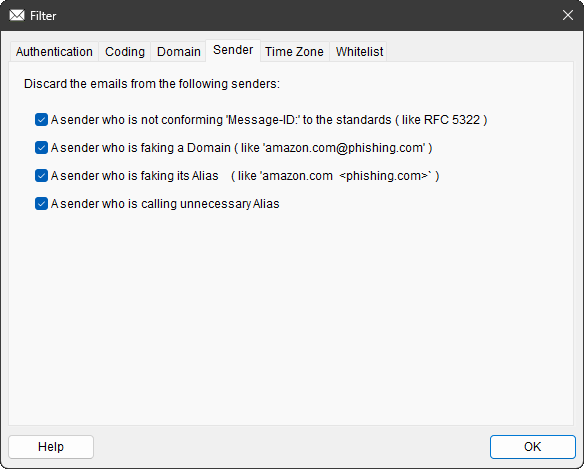
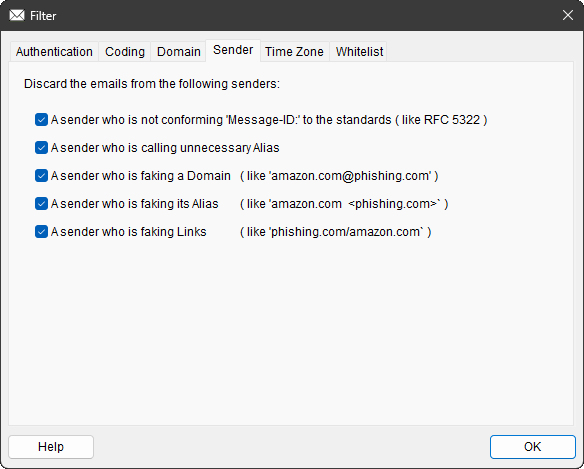
[MOD] to add 'A sender who is faking Links'

diff --git a/ChkMails/ChkMails/MainWnd.cpp b/ChkMails/ChkMails/MainWnd.cpp
@@ -364,7 +364,7 @@ CMainWnd::OnShowHelp( WPARAM wParam, LPARAM lParam )
 void
 CMainWnd::OnMenuWeb( void )
 {
-	CString	strPath = _T("https://github.com/inhouse-tool/ChkMails/README.md");
+	CString	strPath = _T("https://github.com/inhouse-tool/ChkMails/blob/main/README.md");
 	ShellExecute( NULL, _T("open"), strPath, NULL, NULL, SW_SHOWNORMAL );
 }
 
@@ -801,13 +801,13 @@ CMainWnd::LoadFilters( void )
 {
 	CChkMailsApp*	pApp = (CChkMailsApp*)AfxGetApp();
 
-	m_nAuth      = pApp->GetProfileInt(    _T("Filters"), _T("AuthFail"), 2 );
-	m_dwAuthCache     = pApp->GetProfileInt(    _T("Filters"), _T("AuthBits"), 0x00 );
-	m_dwCode     = pApp->GetProfileInt(    _T("Filters"), _T("Code"),     0x07 );
-	m_strDomains = pApp->GetProfileString( _T("Filters"), _T("Drop"),     _T("") );
-	m_dwSender   = pApp->GetProfileInt(    _T("Filters"), _T("Sender"),   0x0f );
-	m_strTimes   = pApp->GetProfileString( _T("Filters"), _T("TimeZone"), _T("") );
-	m_strWhites  = pApp->GetProfileString( _T("Filters"), _T("White"),    _T("") );
+	m_nAuth       = pApp->GetProfileInt(    _T("Filters"), _T("AuthFail"), 2 );
+	m_dwAuthCache = pApp->GetProfileInt(    _T("Filters"), _T("AuthBits"), 0x0000 );
+	m_dwCode      = pApp->GetProfileInt(    _T("Filters"), _T("Code"),     0xffff );
+	m_strDomains  = pApp->GetProfileString( _T("Filters"), _T("Drop"),     _T("") );
+	m_dwSender    = pApp->GetProfileInt(    _T("Filters"), _T("Sender"),   0xffff );
+	m_strTimes    = pApp->GetProfileString( _T("Filters"), _T("TimeZone"), _T("") );
+	m_strWhites   = pApp->GetProfileString( _T("Filters"), _T("White"),    _T("") );
 }
 
 void
@@ -1780,8 +1780,29 @@ CMainWnd::CheckLink( CString& strLines, TCHAR* pchScheme, CAttr& attr )
 		if	( xLink >= 0 )
 			strLink = strLink.Left( xLink );
 		xLink = strLink.Find( '/' );
-		if	( xLink >= 0 )
+
+		// Take a path following the URL.
+
+		CString	strPath;
+		if	( xLink >= 0 ){
+			strPath = strLink.Mid(  xLink+1 );
 			strLink = strLink.Left( xLink );
+		}
+		do{
+			if	( strPath.IsEmpty() )
+				break;
+			xLink = strPath.ReverseFind( '.' );
+			if	( xLink < 0 )
+				break;
+			CString	strTLD = strPath.Mid( xLink );
+			int	xDelim = strTLD.Find( '/' );
+			if	( xDelim >= 0 )
+				strTLD = strTLD.Left( xDelim );
+			if	( m_strTLDCache.Find( strTLD ) < 0 )
+				break;
+			strLink += _T("/") + strPath;
+			FilterError( IDS_RF_LINK_FAKED, attr );
+		}while	( 0 );
 
 		HexToASCII( strLink );
 
@@ -1944,7 +1965,7 @@ CMainWnd::FilterError( UINT uIdError, CAttr& attr )
 	}
 	else if	( uIdError == IDS_RF_DOMAIN ){
 	}
-	else if	( uIdError >= IDS_RF_MESSAGEID && uIdError <= IDS_RF_FAKE_ALIAS ){
+	else if	( uIdError >= IDS_RF_MESSAGEID && uIdError <= IDS_RF_LINK_FAKED ){
 		int	i = uIdError-IDS_RF_MESSAGEID;
 		if	( !( m_dwSender & (1<<i) ) )
 			uIdError = 0;
@@ -1954,6 +1975,8 @@ CMainWnd::FilterError( UINT uIdError, CAttr& attr )
 	else if	( uIdError == IDS_RF_LINK_EVASIVE ){
 		if	( !( m_dwCode & (1<<(IDS_RF_EVASIVECODE-IDS_RF_CHARSET)) ) )
 			uIdError = 0;
+	}
+	else if	( uIdError == IDS_RF_TIMEZONE ){
 	}
 
 	if	( uIdError ){

diff --git a/ChkMails/ChkMails/resource.h b/ChkMails/ChkMails/resource.h
@@ -40,9 +40,10 @@
 #define IDS_RF_FAKE_DOMAIN              206
 #define IDS_RF_FAKE_ALIAS               207
 #define IDS_RF_CALL_BY_ADDR             208
-#define IDS_RF_TIMEZONE                 209
+#define IDS_RF_LINK_FAKED               209
 #define IDS_RF_LINK_DOMAIN              210
 #define IDS_RF_LINK_EVASIVE             211
+#define IDS_RF_TIMEZONE                 212
 #define IDS_RE_DATE                     220
 #define IDS_RE_ABBR                     221
 #define IDS_RE_ENCODING                 222
@@ -89,9 +90,10 @@
 #define IDC_BUTTON_DOMAIN_ADD           1042
 #define IDC_BUTTON_DOMAIN_DEL           1043
 #define IDC_CHECK_SENDER_MESSAGEID      1050
-#define IDC_CHECK_SENDER_FAKEUSER       1051
-#define IDC_CHECK_SENDER_FAKEALIAS      1052
-#define IDC_CHECK_SENDER_FAKEALIAS2     1053
+#define IDC_CHECK_SENDER_CALLALIAS      1051
+#define IDC_CHECK_SENDER_FAKEUSER       1052
+#define IDC_CHECK_SENDER_FAKEALIAS      1053
+#define IDC_CHECK_SENDER_FAKELINK       1054
 #define IDC_LIST_TIMEZONE               1060
 #define IDC_STATIC_DST                  1061
 #define IDC_STATIC_LOCALTIME            1062

diff --git a/ChkMails/ChkMails/SenderPage.cpp b/ChkMails/ChkMails/SenderPage.cpp
@@ -28,7 +28,7 @@ CSenderPage::OnInitDialog( void )
 {
 	CPropertyPage::OnInitDialog();
 
-	for	( int i = 0; i < 4; i++ )
+	for	( int i = 0; i < 5; i++ )
 		if	( m_dwFlags & ( 1 << i ) )
 			((CButton*)GetDlgItem( IDC_CHECK_SENDER_MESSAGEID+i ))->
 				SetCheck( BST_CHECKED );
@@ -40,7 +40,7 @@ void
 CSenderPage::OnOK( void )
 {
 	m_dwFlags = 0;
-	for	( int i = 0; i < 4; i++ )
+	for	( int i = 0; i < 5; i++ )
 		if	( ((CButton*)GetDlgItem( IDC_CHECK_SENDER_MESSAGEID+i ))->
 				GetCheck() == BST_CHECKED )
 			m_dwFlags |= ( 1 << i );
